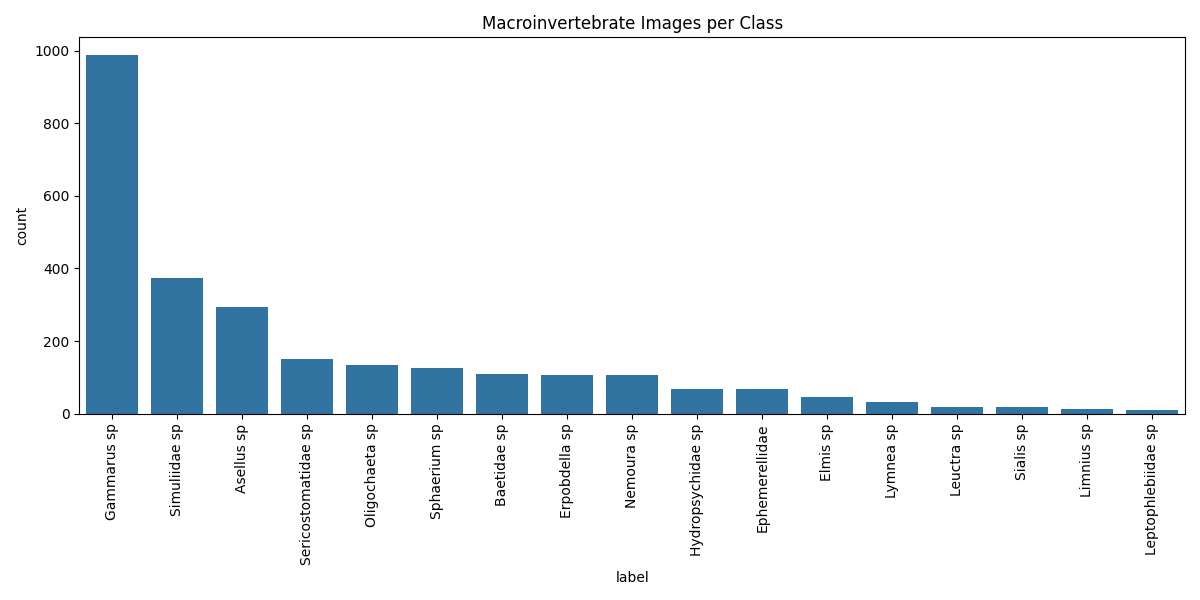
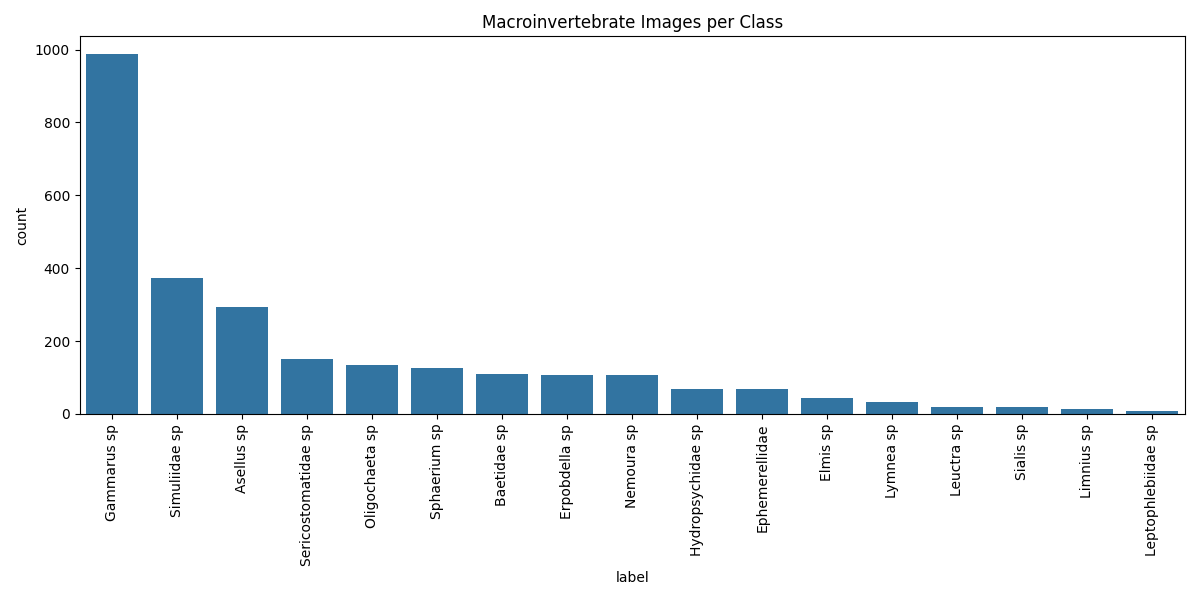
Minor GUI Layout Changes

diff --git a/src/console_app.py b/src/console_app.py
@@ -26,7 +26,7 @@ class ConsoleApp:
         """
 
         while True:
-            print("\Macoinvertebrate Image Analysis & Processing System")
+            print("\nMacoinvertebrate Image Analysis & Processing System")
             print("1. Show dataset summary")
             print("2. Generate EDA outputs")
             print("3. Train the baseline classifier")